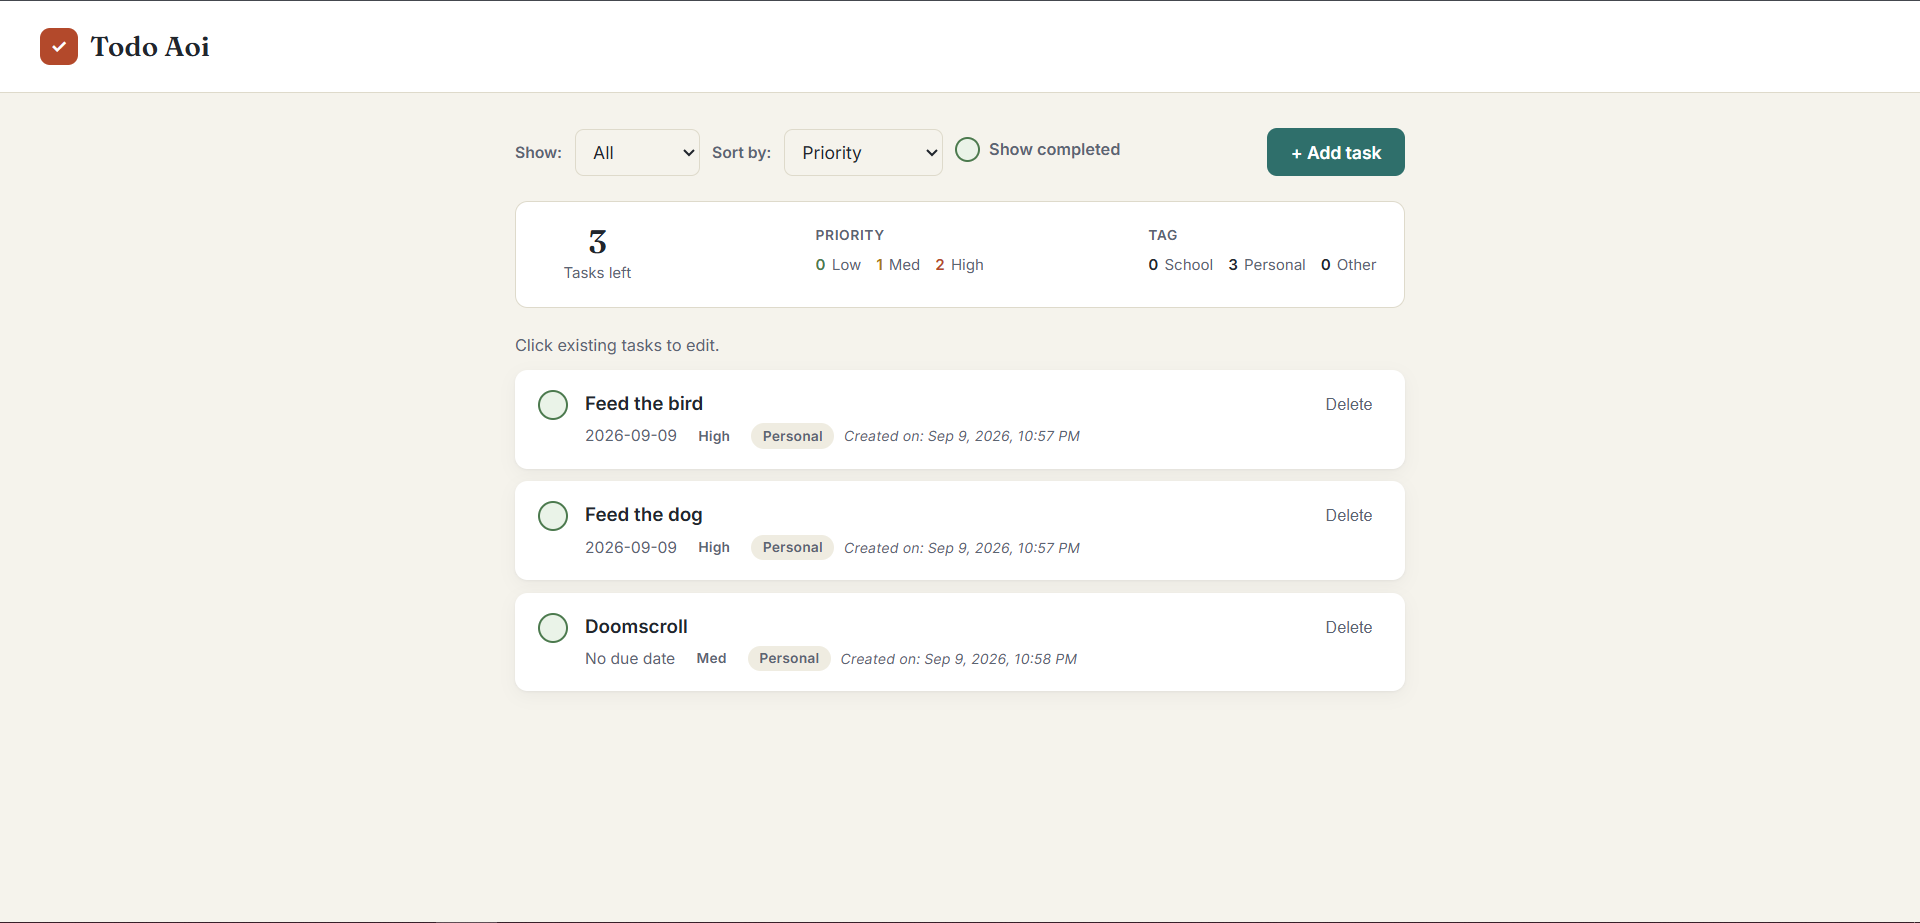
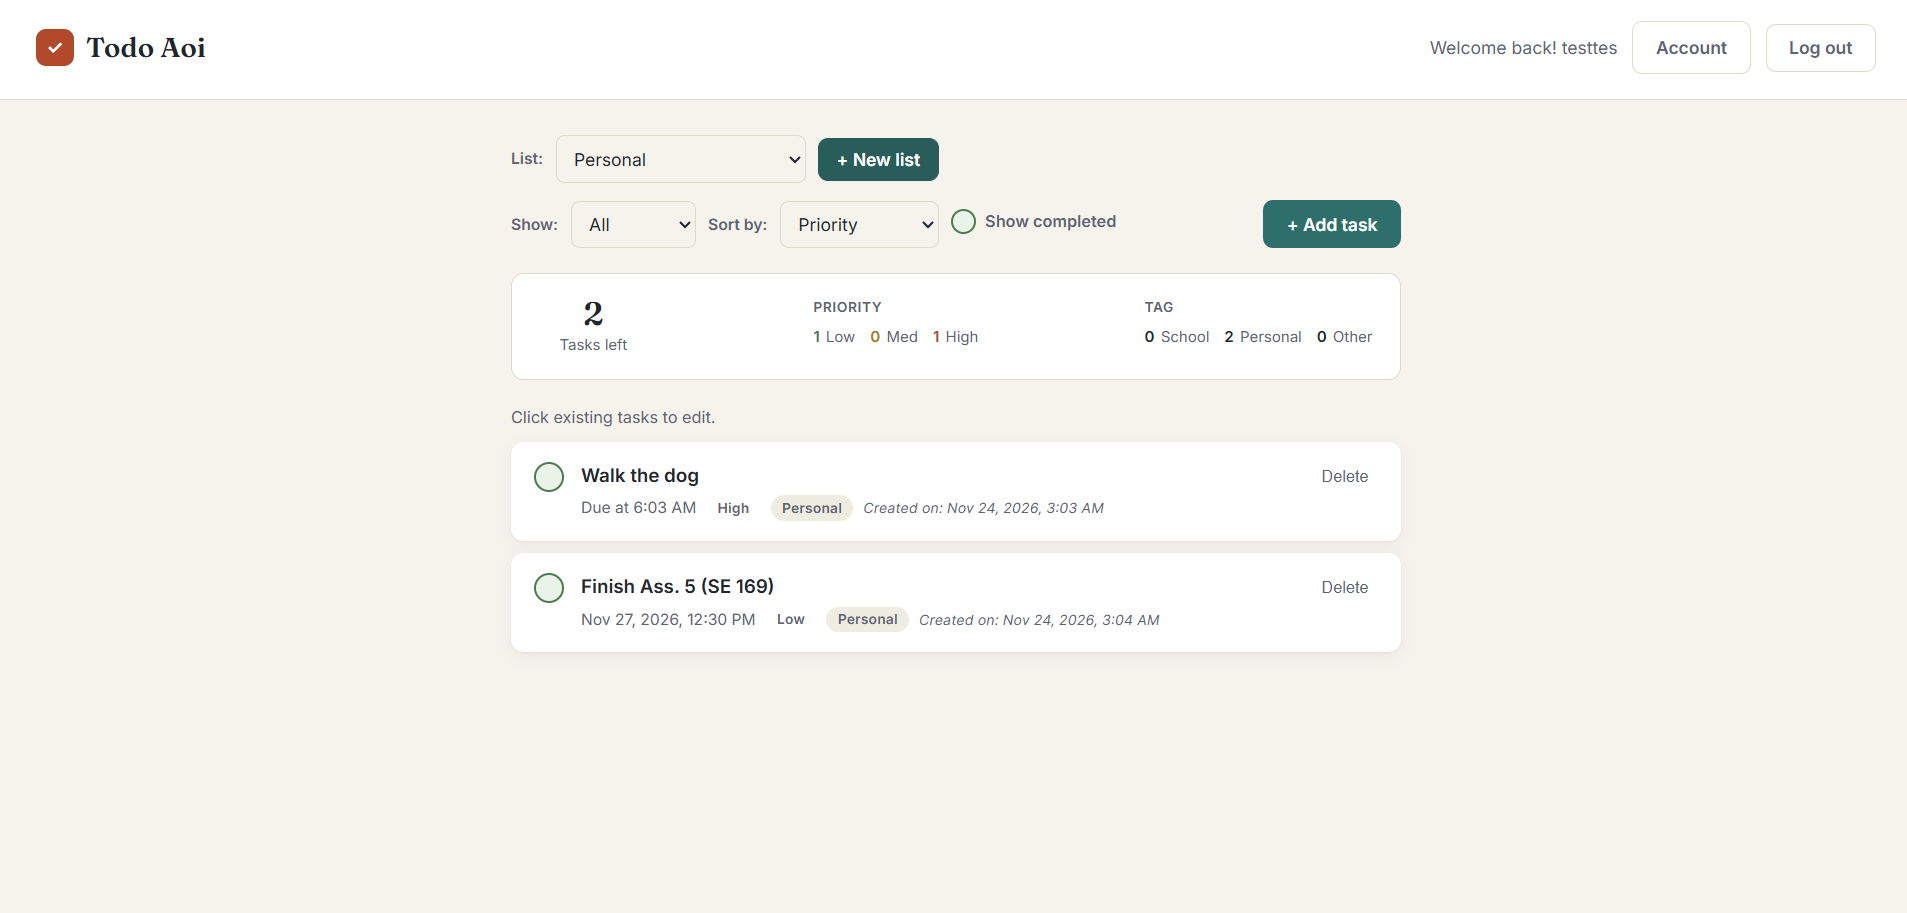
docs: cleaned up readme and added updated images

diff --git a/README.md b/README.md
@@ -20,23 +20,54 @@ which requires node.js
 - **Delete task** - Removes an existing task through `delete_task()` in `delete_task.js`. The database deletion is handled by `remove_task()` in `db_fetch.js`. Undo logic
 is mediated by `undo.js` before going through with `delete_task.js`.
 
+# Images taken from the website
 
-![task popup](images/TaskPopup.png)
-**Task Edit/Add Popup**
-![task popup](images/PopulatedPage.png)
-**Populated Page**
-![task popup](images/Filter.png)
-**Filter/Sort**
-![task popup](images/CompletedTaskVisible.png)
-**Completed Tasks**
+<div align="center">
+  <strong>Login Page</strong><br>
+  <img src="images/LoginPage.png" alt="Login page">
+</div>
 
-+ How to launch:
-"Open with live server" in VS Code
-Add tasks however you like, click to edit an existing task, delete to delete an existing task then confirm.
-You must be connected with the internet!
+<div align="center">
+  <strong>Register Page</strong><br>
+  <img src="images/RegisterPage.png" alt="Register page">
+</div>
 
-+ Collaborative lists:
-Run `act3_collab_lists.sql` in the Supabase SQL editor after the base `tasks` table has been created. This adds list membership, row-level security, and the RPCs used to manage shared lists.
+<div align="center">
+  <strong>Task Edit/Add Popup</strong><br>
+  <img src="images/TaskPopup.png" alt="Task popup">
+</div>
+
+<div align="center">
+  <strong>Populated Page</strong><br>
+  <img src="images/PopulatedPage.png" alt="Populated page">
+</div>
+
+<div align="center">
+  <strong>Filter/Sort</strong><br>
+  <img src="images/Filter.png" alt="Filter and sort">
+</div>
+
+<div align="center">
+  <strong>Completed Tasks</strong><br>
+  <img src="images/CompletedTasksVisible.png" alt="Completed tasks">
+</div>
+
+<div align="center">
+  <strong>Profile Settings</strong><br>
+  <img src="images/ProfileSettings.png" alt="Profile settings">
+</div>
+
+<div align="center">
+  <strong>Collaborative Lists</strong><br>
+  <img src="images/CollaborativeLists.png" alt="Collaborative lists">
+</div>
+
+---
 
 + How Activity 1 and Activity were merged:
 Activity 2 was made by building upon activity 1. Going forwards, the same method was done for the following activities by using the previous activity's branch to make a new branch for the new activity.
+
+# Running locally
+#### !!! Be advised that the functions of the app as it is in its current version won't work without an internet connection
+
++ Without accessing the deployed URL, one can run the app locally in VS Code with the live server extension. Simply open `index.html` and it will redirect you to the current page depending on the status of your session, if there is a logged in account or not. 
